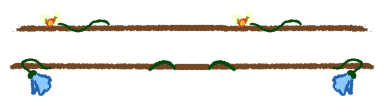
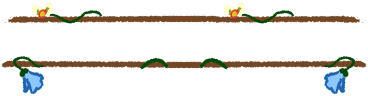
draw button1/button2

Changed region(s): [[0.0, 0.5, 1.0, 1.0], [0.0, 0.0312, 0.9864, 0.3125]]

diff --git a/src/renpy/script.cpp b/src/renpy/script.cpp
@@ -232,27 +232,27 @@ const int strings_length = (sizeof (strings)) / (sizeof (strings[0]));
 const int strings_say_poem_index = 31;
 
 // b'a'
-static const uint32_t character_images_0[] = { 14, 16, 17 };
+static const uint32_t character_images_0[] = { 16, 18, 19 };
 
 static constexpr uint32_t character_images_0_length = 3;
 
 // b'b'
-static const uint32_t character_images_1[] = { 10 };
+static const uint32_t character_images_1[] = { 12 };
 
 static constexpr uint32_t character_images_1_length = 1;
 
 // b'c'
-static const uint32_t character_images_2[] = { 11, 12 };
+static const uint32_t character_images_2[] = { 13, 14 };
 
 static constexpr uint32_t character_images_2_length = 2;
 
 // b'e'
-static const uint32_t character_images_3[] = { 13, 15 };
+static const uint32_t character_images_3[] = { 15, 17 };
 
 static constexpr uint32_t character_images_3_length = 2;
 
 // b'mg'
-static const uint32_t character_images_4[] = { 14, 16, 17, 13, 15 };
+static const uint32_t character_images_4[] = { 16, 18, 19, 15, 17 };
 
 static constexpr uint32_t character_images_4_length = 5;
 
@@ -262,7 +262,7 @@ static const uint32_t character_images_5[] = {  };
 static constexpr uint32_t character_images_5_length = 0;
 
 // b'l'
-static const uint32_t character_images_6[] = { 11, 12 };
+static const uint32_t character_images_6[] = { 13, 14 };
 
 static constexpr uint32_t character_images_6_length = 2;
 
@@ -526,23 +526,25 @@ const int audio_length = (sizeof (audio)) / (sizeof (audio[0]));
 
 const language::image images[] = {
   { .path = "data/renpy/images/flowers.dds", .is_character_image = false }, // 0 flowers.png
-  { .path = "data/renpy/images/bg/forest1.dds", .is_character_image = false }, // 1 bg/forest1.png
-  { .path = "data/renpy/images/bg/forest2.dds", .is_character_image = false }, // 2 bg/forest2.png
-  { .path = "data/renpy/images/bg/flowerfield1.dds", .is_character_image = false }, // 3 bg/flowerfield1.png
-  { .path = "data/renpy/images/bg/wheatfield1.dds", .is_character_image = false }, // 4 bg/wheatfield1.png
-  { .path = "data/renpy/images/bg/castle1.dds", .is_character_image = false }, // 5 bg/castle1.png
-  { .path = "data/renpy/images/bg/castle2.dds", .is_character_image = false }, // 6 bg/castle2.png
-  { .path = "data/renpy/images/bg/castle3.dds", .is_character_image = false }, // 7 bg/castle3.png
-  { .path = "data/renpy/images/bg/castle4.dds", .is_character_image = false }, // 8 bg/castle4.png
-  { .path = "data/renpy/images/end.dds", .is_character_image = false }, // 9 end.png
-  { .path = "data/renpy/images/ch/ibird/Bird.dds", .is_character_image = true }, // 10 ch/ibird/Bird.png
-  { .path = "data/renpy/images/ch/icat/Cat.dds", .is_character_image = true }, // 11 ch/icat/Cat.png
-  { .path = "data/renpy/images/ch/icat/Catw.dds", .is_character_image = true }, // 12 ch/icat/Catw.png
-  { .path = "data/renpy/images/ch/ieily/Eily.dds", .is_character_image = true }, // 13 ch/ieily/Eily.png
-  { .path = "data/renpy/images/ch/ialice/Alice.dds", .is_character_image = true }, // 14 ch/ialice/Alice.png
-  { .path = "data/renpy/images/ch/ieily/Seily.dds", .is_character_image = true }, // 15 ch/ieily/Seily.png
-  { .path = "data/renpy/images/ch/ialice/Salice.dds", .is_character_image = true }, // 16 ch/ialice/Salice.png
-  { .path = "data/renpy/images/ch/ialice/Walice.dds", .is_character_image = true }, // 17 ch/ialice/Walice.png
+  { .path = "data/renpy/images/button1.dds", .is_character_image = false }, // 1 button1.png
+  { .path = "data/renpy/images/button2.dds", .is_character_image = false }, // 2 button2.png
+  { .path = "data/renpy/images/bg/forest1.dds", .is_character_image = false }, // 3 bg/forest1.png
+  { .path = "data/renpy/images/bg/forest2.dds", .is_character_image = false }, // 4 bg/forest2.png
+  { .path = "data/renpy/images/bg/flowerfield1.dds", .is_character_image = false }, // 5 bg/flowerfield1.png
+  { .path = "data/renpy/images/bg/wheatfield1.dds", .is_character_image = false }, // 6 bg/wheatfield1.png
+  { .path = "data/renpy/images/bg/castle1.dds", .is_character_image = false }, // 7 bg/castle1.png
+  { .path = "data/renpy/images/bg/castle2.dds", .is_character_image = false }, // 8 bg/castle2.png
+  { .path = "data/renpy/images/bg/castle3.dds", .is_character_image = false }, // 9 bg/castle3.png
+  { .path = "data/renpy/images/bg/castle4.dds", .is_character_image = false }, // 10 bg/castle4.png
+  { .path = "data/renpy/images/end.dds", .is_character_image = false }, // 11 end.png
+  { .path = "data/renpy/images/ch/ibird/Bird.dds", .is_character_image = true }, // 12 ch/ibird/Bird.png
+  { .path = "data/renpy/images/ch/icat/Cat.dds", .is_character_image = true }, // 13 ch/icat/Cat.png
+  { .path = "data/renpy/images/ch/icat/Catw.dds", .is_character_image = true }, // 14 ch/icat/Catw.png
+  { .path = "data/renpy/images/ch/ieily/Eily.dds", .is_character_image = true }, // 15 ch/ieily/Eily.png
+  { .path = "data/renpy/images/ch/ialice/Alice.dds", .is_character_image = true }, // 16 ch/ialice/Alice.png
+  { .path = "data/renpy/images/ch/ieily/Seily.dds", .is_character_image = true }, // 17 ch/ieily/Seily.png
+  { .path = "data/renpy/images/ch/ialice/Salice.dds", .is_character_image = true }, // 18 ch/ialice/Salice.png
+  { .path = "data/renpy/images/ch/ialice/Walice.dds", .is_character_image = true }, // 19 ch/ialice/Walice.png
 };
 
 const int images_length = (sizeof (images)) / (sizeof (images[0]));
@@ -594,12 +596,12 @@ const language::statement statements[] = {
   { .type = type::play, .play = { .audioIndex = 5 } }, // 12 music/TinyForestMinstrels.ogg
   { .type = type::voice, .voice = { .audioIndex = 6 } }, // 13 nara/n4.ogg
   { .type = type::say, .say = { .characterIndex = 5, .stringIndex = 3 } }, // 14 n "Tiny minstrels can be heard amongst the trees"
-  { .type = type::scene, .scene = { .imageIndex = 1 } }, // 15 bgforest1
+  { .type = type::scene, .scene = { .imageIndex = 3 } }, // 15 bgforest1
   { .type = type::play, .play = { .audioIndex = 1 } }, // 16 sfx/Chime.ogg
-  { .type = type::show, .show = { .imageIndex = 14, .transformIndex = transform::left, } }, // 17 al
+  { .type = type::show, .show = { .imageIndex = 16, .transformIndex = transform::left, } }, // 17 al
   { .type = type::voice, .voice = { .audioIndex = 7 } }, // 18 alice/a1.ogg
   { .type = type::say, .say = { .characterIndex = 0, .stringIndex = 4 } }, // 19 a "Are we almost there?"
-  { .type = type::show, .show = { .imageIndex = 13, .transformIndex = transform::right, } }, // 20 ei
+  { .type = type::show, .show = { .imageIndex = 15, .transformIndex = transform::right, } }, // 20 ei
   { .type = type::voice, .voice = { .audioIndex = 8 } }, // 21 eily/e1.ogg
   { .type = type::say, .say = { .characterIndex = 3, .stringIndex = 5 } }, // 22 e "Hmmm... Not really"
   { .type = type::voice, .voice = { .audioIndex = 9 } }, // 23 alice/a2.ogg
@@ -638,11 +640,11 @@ const language::statement statements[] = {
   { .type = type::voice, .voice = { .audioIndex = 21 } }, // 56 nara/n5.ogg
   { .type = type::say, .say = { .characterIndex = 5, .stringIndex = 18 } }, // 57 n "As the minstrel mice girls continue along the path, the forest opens up into a beautiful field of flowers"
   { .type = type::play, .play = { .audioIndex = 22 } }, // 58 music/PhrygianButterflies.ogg
-  { .type = type::scene, .scene = { .imageIndex = 3 } }, // 59 bgflower1
-  { .type = type::show, .show = { .imageIndex = 13, .transformIndex = transform::right, } }, // 60 ei
+  { .type = type::scene, .scene = { .imageIndex = 5 } }, // 59 bgflower1
+  { .type = type::show, .show = { .imageIndex = 15, .transformIndex = transform::right, } }, // 60 ei
   { .type = type::voice, .voice = { .audioIndex = 23 } }, // 61 eily/e8.ogg
   { .type = type::say, .say = { .characterIndex = 3, .stringIndex = 19 } }, // 62 e "Look at all the butterflies! They are all so pretty!"
-  { .type = type::show, .show = { .imageIndex = 14, .transformIndex = transform::left, } }, // 63 al
+  { .type = type::show, .show = { .imageIndex = 16, .transformIndex = transform::left, } }, // 63 al
   { .type = type::voice, .voice = { .audioIndex = 24 } }, // 64 alice/a8.ogg
   { .type = type::say, .say = { .characterIndex = 0, .stringIndex = 20 } }, // 65 a "This place is like a dream..."
   { .type = type::voice, .voice = { .audioIndex = 25 } }, // 66 eily/e9.ogg
@@ -678,19 +680,19 @@ const language::statement statements[] = {
   { .type = type::say, .say = { .characterIndex = 0, .stringIndex = 33 } }, // 96 a "They were asking for it, you know"
   { .type = type::jump, .jump = { .statementIndex = 98 } }, // 97 internal jump (b'__menu_end', 1)
   { .type = type::jump, .jump = { .statementIndex = 99 } }, // 98 mainbranch2
-  { .type = type::hide, .hide = { .imageIndex = 13 } }, // 99 ei
-  { .type = type::show, .show = { .imageIndex = 12, .transformIndex = transform::right, } }, // 100 catw
-  { .type = type::show, .show = { .imageIndex = 13, .transformIndex = xflip | transform::centerleft, } }, // 101 ei
+  { .type = type::hide, .hide = { .imageIndex = 15 } }, // 99 ei
+  { .type = type::show, .show = { .imageIndex = 14, .transformIndex = transform::right, } }, // 100 catw
+  { .type = type::show, .show = { .imageIndex = 15, .transformIndex = xflip | transform::centerleft, } }, // 101 ei
   { .type = type::say, .say = { .characterIndex = 2, .stringIndex = 34 } }, // 102 c "Rawrrrr"
   { .type = type::play, .play = { .audioIndex = 38 } }, // 103 leona/c1.ogg
   { .type = type::pause, .pause = { .duration = 0.7 } }, // 104
-  { .type = type::hide, .hide = { .imageIndex = 12 } }, // 105 catw
-  { .type = type::show, .show = { .imageIndex = 11, .transformIndex = transform::right, } }, // 106 cat
+  { .type = type::hide, .hide = { .imageIndex = 14 } }, // 105 catw
+  { .type = type::show, .show = { .imageIndex = 13, .transformIndex = transform::right, } }, // 106 cat
   { .type = type::play, .play = { .audioIndex = 39 } }, // 107 music/ScaredMice.ogg
-  { .type = type::hide, .hide = { .imageIndex = 13 } }, // 108 ei
-  { .type = type::hide, .hide = { .imageIndex = 14 } }, // 109 al
-  { .type = type::show, .show = { .imageIndex = 15, .transformIndex = xflip | transform::centerleft, } }, // 110 sei
-  { .type = type::show, .show = { .imageIndex = 16, .transformIndex = transform::left, } }, // 111 sal
+  { .type = type::hide, .hide = { .imageIndex = 15 } }, // 108 ei
+  { .type = type::hide, .hide = { .imageIndex = 16 } }, // 109 al
+  { .type = type::show, .show = { .imageIndex = 17, .transformIndex = xflip | transform::centerleft, } }, // 110 sei
+  { .type = type::show, .show = { .imageIndex = 18, .transformIndex = transform::left, } }, // 111 sal
   { .type = type::voice, .voice = { .audioIndex = 40 } }, // 112 mousegirls/mg1.ogg
   { .type = type::say, .say = { .characterIndex = 4, .stringIndex = 35 } }, // 113 mg "AHHHHHHHHHH!!!!!"
   { .type = type::voice, .voice = { .audioIndex = 41 } }, // 114 leona/c2.ogg
@@ -710,13 +712,13 @@ const language::statement statements[] = {
   { .type = type::stop, .stop = { .audioIndex = 39, .fadeout = 2.0 } }, // 128 ScaredMice
   { .type = type::voice, .voice = { .audioIndex = 46 } }, // 129 leona/c4.ogg
   { .type = type::say, .say = { .characterIndex = 2, .stringIndex = 41 } }, // 130 c "I'm not gonna eat you nyanyanya"
-  { .type = type::hide, .hide = { .imageIndex = 16 } }, // 131 sal
-  { .type = type::show, .show = { .imageIndex = 14, .transformIndex = transform::left, } }, // 132 al
+  { .type = type::hide, .hide = { .imageIndex = 18 } }, // 131 sal
+  { .type = type::show, .show = { .imageIndex = 16, .transformIndex = transform::left, } }, // 132 al
   { .type = type::play, .play = { .audioIndex = 5 } }, // 133 music/TinyForestMinstrels.ogg
   { .type = type::voice, .voice = { .audioIndex = 47 } }, // 134 leona/c5.ogg
   { .type = type::say, .say = { .characterIndex = 2, .stringIndex = 42 } }, // 135 c "I just want to know what two little meowses are doing so very far away from home"
-  { .type = type::hide, .hide = { .imageIndex = 15 } }, // 136 sei
-  { .type = type::show, .show = { .imageIndex = 13, .transformIndex = xflip | transform::centerleft, } }, // 137 ei
+  { .type = type::hide, .hide = { .imageIndex = 17 } }, // 136 sei
+  { .type = type::show, .show = { .imageIndex = 15, .transformIndex = xflip | transform::centerleft, } }, // 137 ei
   { .type = type::voice, .voice = { .audioIndex = 48 } }, // 138 leona/c6.ogg
   { .type = type::say, .say = { .characterIndex = 2, .stringIndex = 43 } }, // 139 c "Also, are you minstrels?"
   { .type = type::voice, .voice = { .audioIndex = 49 } }, // 140 eily/e20.ogg
@@ -763,7 +765,7 @@ const language::statement statements[] = {
   { .type = type::say, .say = { .characterIndex = 2, .stringIndex = 63 } }, // 181 c "I DONT NEED TO BE PRESSURED BY LITTLE MICE TO SAY ANYTHING!!!!"
   { .type = type::voice, .voice = { .audioIndex = 69 } }, // 182 leona/c17.ogg
   { .type = type::say, .say = { .characterIndex = 2, .stringIndex = 64 } }, // 183 c "GOOD DAY!"
-  { .type = type::hide, .hide = { .imageIndex = 11 } }, // 184 cat
+  { .type = type::hide, .hide = { .imageIndex = 13 } }, // 184 cat
   { .type = type::voice, .voice = { .audioIndex = 70 } }, // 185 alice/a17.ogg
   { .type = type::say, .say = { .characterIndex = 0, .stringIndex = 65 } }, // 186 a "Wha..."
   { .type = type::voice, .voice = { .audioIndex = 71 } }, // 187 eily/e28.ogg
@@ -776,19 +778,19 @@ const language::statement statements[] = {
   { .type = type::play, .play = { .audioIndex = 1 } }, // 194 sfx/Chime.ogg
   { .type = type::voice, .voice = { .audioIndex = 74 } }, // 195 nara/n6.ogg
   { .type = type::say, .say = { .characterIndex = 5, .stringIndex = 69 } }, // 196 n "After their encounter with the weird cat, the mice scurry out of the flower field and into the nearby meadow"
-  { .type = type::scene, .scene = { .imageIndex = 2 } }, // 197 bgforest2
-  { .type = type::show, .show = { .imageIndex = 13, .transformIndex = transform::right, } }, // 198 ei
+  { .type = type::scene, .scene = { .imageIndex = 4 } }, // 197 bgforest2
+  { .type = type::show, .show = { .imageIndex = 15, .transformIndex = transform::right, } }, // 198 ei
   { .type = type::voice, .voice = { .audioIndex = 75 } }, // 199 eily/e30.ogg
   { .type = type::say, .say = { .characterIndex = 3, .stringIndex = 70 } }, // 200 e "I think this is the right way..."
-  { .type = type::show, .show = { .imageIndex = 14, .transformIndex = transform::left, } }, // 201 al
+  { .type = type::show, .show = { .imageIndex = 16, .transformIndex = transform::left, } }, // 201 al
   { .type = type::voice, .voice = { .audioIndex = 76 } }, // 202 alice/a19.ogg
   { .type = type::say, .say = { .characterIndex = 0, .stringIndex = 71 } }, // 203 a "Then where did the path go?"
   { .type = type::voice, .voice = { .audioIndex = 77 } }, // 204 eily/e31.ogg
   { .type = type::say, .say = { .characterIndex = 3, .stringIndex = 72 } }, // 205 e "How am I supposed to know?"
   { .type = type::voice, .voice = { .audioIndex = 78 } }, // 206 alice/a20.ogg
   { .type = type::say, .say = { .characterIndex = 0, .stringIndex = 73 } }, // 207 a "Did you hear that?!?!"
-  { .type = type::show, .show = { .imageIndex = 13, .transformIndex = xflip | transform::centerleft, } }, // 208 ei
-  { .type = type::show, .show = { .imageIndex = 11, .transformIndex = transform::right, } }, // 209 cat
+  { .type = type::show, .show = { .imageIndex = 15, .transformIndex = xflip | transform::centerleft, } }, // 208 ei
+  { .type = type::show, .show = { .imageIndex = 13, .transformIndex = transform::right, } }, // 209 cat
   { .type = type::play, .play = { .audioIndex = 22 } }, // 210 music/PhrygianButterflies.ogg
   { .type = type::voice, .voice = { .audioIndex = 79 } }, // 211 leona/c18.ogg
   { .type = type::say, .say = { .characterIndex = 2, .stringIndex = 74 } }, // 212 c "Hey there... I apologize, I didn't mean to storm off like that"
@@ -914,27 +916,27 @@ const language::statement statements[] = {
   { .type = type::say, .say = { .characterIndex = 3, .stringIndex = 128 } }, // 332 e "Ha ha... Okay..."
   { .type = type::voice, .voice = { .audioIndex = 135 } }, // 333 leona/c36.ogg
   { .type = type::say, .say = { .characterIndex = 2, .stringIndex = 129 } }, // 334 c "Great! Follow me, I know a shortcut! :3"
-  { .type = type::hide, .hide = { .imageIndex = 11 } }, // 335 cat
+  { .type = type::hide, .hide = { .imageIndex = 13 } }, // 335 cat
   { .type = type::voice, .voice = { .audioIndex = 136 } }, // 336 alice/a34.ogg
   { .type = type::say, .say = { .characterIndex = 0, .stringIndex = 130 } }, // 337 a "Sounds good!"
-  { .type = type::hide, .hide = { .imageIndex = 14 } }, // 338 al
+  { .type = type::hide, .hide = { .imageIndex = 16 } }, // 338 al
   { .type = type::stop, .stop = { .audioIndex = 22, .fadeout = 2.0 } }, // 339 PhrygianButterflies
   { .type = type::voice, .voice = { .audioIndex = 137 } }, // 340 eily/e56.ogg
   { .type = type::say, .say = { .characterIndex = 3, .stringIndex = 131 } }, // 341 e "Oh dear!"
-  { .type = type::hide, .hide = { .imageIndex = 13 } }, // 342 ei
+  { .type = type::hide, .hide = { .imageIndex = 15 } }, // 342 ei
   { .type = type::scene_color, .scene_color = { .color = 0xffffff } }, // 343 bgwhite
   { .type = type::play, .play = { .audioIndex = 1 } }, // 344 sfx/Chime.ogg
   { .type = type::voice, .voice = { .audioIndex = 138 } }, // 345 nara/n7.ogg
   { .type = type::say, .say = { .characterIndex = 5, .stringIndex = 132 } }, // 346 n "And so the mice girls follow the noble cat further towards their destination"
-  { .type = type::scene, .scene = { .imageIndex = 4 } }, // 347 bgwheatfield1
+  { .type = type::scene, .scene = { .imageIndex = 6 } }, // 347 bgwheatfield1
   { .type = type::play, .play = { .audioIndex = 139 } }, // 348 music/WheatFields.ogg
-  { .type = type::show, .show = { .imageIndex = 11, .transformIndex = transform::right, } }, // 349 cat
+  { .type = type::show, .show = { .imageIndex = 13, .transformIndex = transform::right, } }, // 349 cat
   { .type = type::voice, .voice = { .audioIndex = 140 } }, // 350 leona/c37.ogg
   { .type = type::say, .say = { .characterIndex = 2, .stringIndex = 133 } }, // 351 c "Nya"
-  { .type = type::show, .show = { .imageIndex = 17, .transformIndex = transform::left, } }, // 352 wal
+  { .type = type::show, .show = { .imageIndex = 19, .transformIndex = transform::left, } }, // 352 wal
   { .type = type::voice, .voice = { .audioIndex = 141 } }, // 353 alice/a35.ogg
   { .type = type::say, .say = { .characterIndex = 0, .stringIndex = 134 } }, // 354 a "Look, your right, the castle is just up ahead!"
-  { .type = type::show, .show = { .imageIndex = 13, .transformIndex = xflip | transform::centerleft, } }, // 355 ei
+  { .type = type::show, .show = { .imageIndex = 15, .transformIndex = xflip | transform::centerleft, } }, // 355 ei
   { .type = type::voice, .voice = { .audioIndex = 142 } }, // 356 eily/e57.ogg
   { .type = type::say, .say = { .characterIndex = 3, .stringIndex = 135 } }, // 357 e "Wait up"
   { .type = type::voice, .voice = { .audioIndex = 143 } }, // 358 leona/c38.ogg
@@ -1016,18 +1018,18 @@ const language::statement statements[] = {
   { .type = type::say, .say = { .characterIndex = 5, .stringIndex = 171 } }, // 434 n "They were then instructed to wait for an audience with the Queen"
   { .type = type::voice, .voice = { .audioIndex = 180 } }, // 435 hera/h1.ogg
   { .type = type::say, .say = { .characterIndex = 7, .stringIndex = 172 } }, // 436 h "You may now present yourselves before her Majesty, Queen Alary of Alysen"
-  { .type = type::scene, .scene = { .imageIndex = 5 } }, // 437 bgcastle1
+  { .type = type::scene, .scene = { .imageIndex = 7 } }, // 437 bgcastle1
   { .type = type::play, .play = { .audioIndex = 181 } }, // 438 music/Preludium.ogg
-  { .type = type::show, .show = { .imageIndex = 10, .transformIndex = transform::right, } }, // 439 bi
+  { .type = type::show, .show = { .imageIndex = 12, .transformIndex = transform::right, } }, // 439 bi
   { .type = type::pause, .pause = { .duration = 1.0 } }, // 440
   { .type = type::voice, .voice = { .audioIndex = 182 } }, // 441 hera/h2.ogg
   { .type = type::say, .say = { .characterIndex = 7, .stringIndex = 173 } }, // 442 h "Leona Agrepen of Elmindeer"
-  { .type = type::show, .show = { .imageIndex = 11, .transformIndex = xflip | transform::center, } }, // 443 cat
+  { .type = type::show, .show = { .imageIndex = 13, .transformIndex = xflip | transform::center, } }, // 443 cat
   { .type = type::voice, .voice = { .audioIndex = 183 } }, // 444 leona/c57.ogg
   { .type = type::say, .say = { .characterIndex = 6, .stringIndex = 174 } }, // 445 l "Hail, your Majesty"
   { .type = type::voice, .voice = { .audioIndex = 184 } }, // 446 hera/h3.ogg
   { .type = type::say, .say = { .characterIndex = 7, .stringIndex = 175 } }, // 447 h "Eily VeraWheat of the Western Principalities"
-  { .type = type::show, .show = { .imageIndex = 13, .transformIndex = transform::centerleft, } }, // 448 ei
+  { .type = type::show, .show = { .imageIndex = 15, .transformIndex = transform::centerleft, } }, // 448 ei
   { .type = type::voice, .voice = { .audioIndex = 185 } }, // 449 eily/e69.ogg
   { .type = type::say, .say = { .characterIndex = 3, .stringIndex = 174 } }, // 450 e "Hail, your Majesty"
   { .type = type::voice, .voice = { .audioIndex = 186 } }, // 451 hera/h4.ogg
@@ -1036,7 +1038,7 @@ const language::statement statements[] = {
   { .type = type::pause, .pause = { .duration = 1.0 } }, // 454
   { .type = type::voice, .voice = { .audioIndex = 188 } }, // 455 alice/a40.ogg
   { .type = type::say, .say = { .characterIndex = 0, .stringIndex = 177 } }, // 456 a "I'm alright!"
-  { .type = type::show, .show = { .imageIndex = 17, .transformIndex = transform::left, } }, // 457 wal
+  { .type = type::show, .show = { .imageIndex = 19, .transformIndex = transform::left, } }, // 457 wal
   { .type = type::voice, .voice = { .audioIndex = 189 } }, // 458 alice/a41.ogg
   { .type = type::say, .say = { .characterIndex = 0, .stringIndex = 178 } }, // 459 a "H-Hail, your majesty"
   { .type = type::voice, .voice = { .audioIndex = 190 } }, // 460 leona/c58.ogg
@@ -1124,7 +1126,7 @@ const language::statement statements[] = {
   { .type = type::voice, .voice = { .audioIndex = 230 } }, // 542 bird/b20.ogg
   { .type = type::say, .say = { .characterIndex = 1, .stringIndex = 216 } }, // 543 b "You are most welcome to proceed with your little song"
   { .type = type::play, .play = { .audioIndex = 231 } }, // 544 poem/BirdSong.ogg
-  { .type = type::scene, .scene = { .imageIndex = 5 } }, // 545 bgcastle1
+  { .type = type::scene, .scene = { .imageIndex = 7 } }, // 545 bgcastle1
   { .type = type::say, .say = { .characterIndex = 3, .stringIndex = 31 } }, // 546 e "..."
   { .type = type::pause, .pause = { .duration = 73.5 } }, // 547
   { .type = type::scene_color, .scene_color = { .color = 0xffffff } }, // 548 bgwhite
@@ -1135,7 +1137,7 @@ const language::statement statements[] = {
   { .type = type::voice, .voice = { .audioIndex = 234 } }, // 553 nara/n13.ogg
   { .type = type::say, .say = { .characterIndex = 5, .stringIndex = 219 } }, // 554 n "before returning to their small nameless town, near the Keep of Musia"
   { .type = type::scene_color, .scene_color = { .color = 0xffffff } }, // 555 bgwhite
-  { .type = type::show, .show = { .imageIndex = 9, .transformIndex = transform::center, } }, // 556 bgend
+  { .type = type::show, .show = { .imageIndex = 11, .transformIndex = transform::center, } }, // 556 bgend
   { .type = type::pause, .pause = { .duration = 1.0 } }, // 557
   { .type = type::jump, .jump = { .statementIndex = 557 } }, // 558 end
   { .type = type::_return }, // 559

diff --git a/src/main.cpp b/src/main.cpp
@@ -548,6 +548,15 @@ void handlePause(renpy::interpreter & interpreter_state,
   }
 }
 
+int mainAudio(void * quit)
+{
+  while (*(bool *)quit == false) {
+    audio::update();
+    SDL_Delay(1);
+  }
+  return 0;
+}
+
 int main()
 {
   file::init();
@@ -965,9 +974,10 @@ int main()
 
   renpy::interpreter interpreter_state;
   //interpreter_state.reset(88);
+  //interpreter_state.reset(427);
   interpreter_state.reset(0);
-  /*
-  while (interpreter_state.pc < 533) {
+  //while (interpreter_state.pc < 543) {
+  while (interpreter_state.pc < 26) {
     if (interpreter_state.pause.menu) {
       renpy::jumpToMenuItem(interpreter_state, 0);
     }
@@ -977,7 +987,6 @@ int main()
     interpreter_state.interpret();
   }
   audio::stop_all();
-  */
 
   //////////////////////////////////////////////////////////////////////
   // renpy composite
@@ -1043,9 +1052,9 @@ int main()
   bool useGamepad = false;
   uint32_t whichGamepad = 0;
 
-  while (quit == false) {
-    audio::update();
+  SDL_Thread * audio_thread = SDL_CreateThread(mainAudio, "audio", &quit);
 
+  while (quit == false) {
     //////////////////////////////////////////////////////////////////////
     // interpreter update
     //////////////////////////////////////////////////////////////////////
@@ -1530,6 +1539,7 @@ int main()
     }
   }
 
+  SDL_WaitThread(audio_thread, nullptr);
   VK_CHECK(vkDeviceWaitIdle(device));
 
   //collada_state.vulkan.destroy_all(collada_scene_descriptor);

diff --git a/src/renpy/vulkan.cpp b/src/renpy/vulkan.cpp
@@ -546,6 +546,19 @@ namespace renpy {
         .color = overlap ? 0xf0494493u : 0xa0ffffffu,
         .imageIndex = -3, // white gradient 2
       };
+
+      constexpr int buttonWidth = 368;
+      constexpr int buttonHeight = 96;
+      constexpr int menuCenterX = menu::x + (menu::width / 2);
+      int menuCenterY = menu::yStride * i + menu::y + (menu::height / 2) + 7;
+
+      instanceMappedData[maximumImageCount * frameIndex + outputIndex++] = {
+        .size = {buttonWidth, buttonHeight},
+        .topLeft = {menuCenterX - buttonWidth / 2, (int16_t)(menuCenterY - buttonHeight / 2)},
+        .color = 0,
+        .imageIndex = (int16_t)(1 + (i % 2)), // button1/button2
+      };
+
     }
   }
 

diff --git a/renpy-parser/transform.py b/renpy-parser/transform.py
@@ -409,6 +409,8 @@ def pass2(state):
 def main():
     preamble = b"""
 image _internal_flowers = "flowers.png"
+image _internal_button1 = "button1.png"
+image _internal_button2 = "button2.png"
     """
     with open(sys.argv[1], 'rb') as f:
         mem = memoryview(bytes(chain(preamble, f.read())))

diff --git a/include/renpy/interact.h b/include/renpy/interact.h
@@ -6,7 +6,7 @@ namespace renpy {
 
   namespace menu {
     constexpr int width = 480;
-    constexpr int height = 40;
+    constexpr int height = 42;
     constexpr int x = 400;
     constexpr int y = 100;
     constexpr int yStride = 100;
